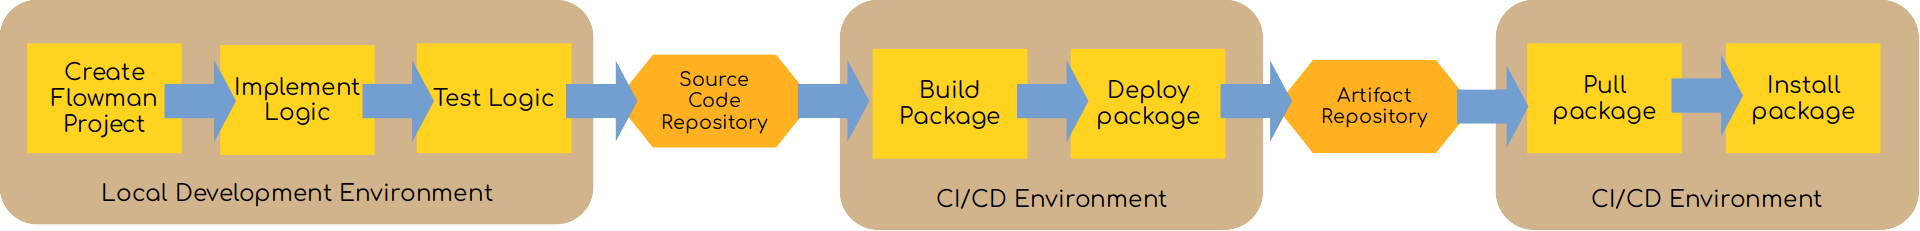
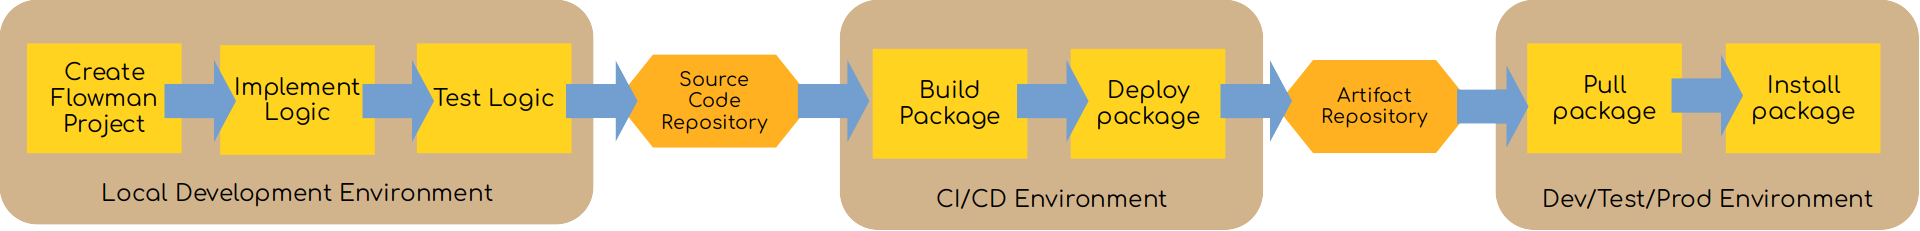
Update workflow description

Changed region(s): [[0.7812, 0.8182, 0.9688, 0.9091]]

diff --git a/docs/workflow.md b/docs/workflow.md
@@ -1,13 +1,19 @@
 # Development & Deployment Workflow
 
-This text will give you some guidance how a typical development workflow would look like. It starts from creating
+This text will give you some guidance how a typical development workflow would look like. Unsurprisingly, the steps
+should look very familiar since they represent the typical development workflow based on local development, CI/CD and
+production deployment. The workflow starts from creating
 a new Flowman project, describes how to run the project locally, build a self-contained redistributable package
 and then deploy it to a remote repository manager like Nexus.
 
 ![Flowman Development Workflow](images/flowman-workflow.png)
 
+The whole workflow is implemented with [Apache Maven](https://maven.apache.org/), but you could of course also chose a 
+different build tool. Maven was chosen simply because one can assume that this is present in a Big Data environment, so 
+no additional installation on developer machines or CI/CD infrastructure is required.
 
-## 1. Creating a new project via Maven
+
+## 1. Creating a new project from a Maven Archetype
 First you need to create a new Flowman project. You can either copy/paste from one of the official Flowman examples,
 or you can create a new project from a Maven archetype provided. This can be done as follows:
 ```shell
@@ -119,7 +125,7 @@ directory.  The package will contain both Flowman and your project. It will not 
 need to be provided by your environment.
 
 
-## 5. Deploying to remote Repository
+## 5. Pushing to remote Repository
 
 This step possibly should be performed via a CI/CD pipeline (for example Jenkins). Of course the details heavily depend
 on your infrastructure, but basically the following command will do the job:
@@ -131,15 +137,24 @@ course, you will need to configure appropriate credentials in your Maven `settin
 settings file, and not part of the project).
 
 
-## 6. Installing from the package
+## 6. Deploying to Production
 
+This is the most difficult part and completely depends on your build and deployment infrastructure and on your target
+environment (Kubernetes, Cloudera, EMR, ...). But generally, the following steps need to be performed:
+
+### 1. Fetch redistributable package from remote repository
+You can use Maven again to retrieve the correct package via
+```shell
+mvn dependency:get -Dartifact=<your-groupId>:<your-artifactId>:<version> -Ddest=<your-dest-directory>
+```
+
+### 2. Unpack redistributable package at appropriate location
 You can easily unpack the package, which will provide a complete Flowman installation (minus Spark and Hadoop):
 ```shell
 tar xvzf <your-artifactId>-<version>-dist-bin.tar.gz
 ```
 
-
-## 7. Running from the installation
+### 3. Run on your infrastructure
 
 Within the installation directory, you can easily run Flowman via
 ```shell
@@ -149,13 +164,3 @@ Or you can of course also start the Flowman Shell via
 ```shell
 bin/flowshell -f flow
 ```
-
-
-## 8. Deploying to Production
-
-This is the most difficult part and completely depends on your build and deployment infrastructure and on your target
-environment (Kubernetes, Cloudera, EMR, ...). But generally, the following steps need to be performed:
-
-1. Fetch redistributable package from remote repository
-2. Unpack redistributable package at appropriate location
-3. Do whatever is required for your infrastructure
